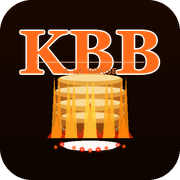
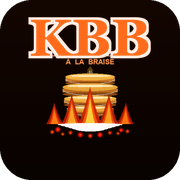
fix(pwa): icône redessinée + SW anti-404 (kbb-v63)
- Icône redessinée : flammes correctes (larges en bas, pointe vers le haut),
  tranches de viande séparées visibles, "À LA BRAISE" lisible,
  braises rougeoyantes au pied des flammes
- sw.js kbb-v63 : cache.addAll séparé en critiques (bloquant) et
  optionnels (Promise.allSettled → plus de 404 bloquant au démarrage)

diff --git a/sw.js b/sw.js
@@ -1,9 +1,14 @@
-const VERSION = 'kbb-v62';
+const VERSION = 'kbb-v63';
 const CACHE = VERSION;
 
-const ASSETS = [
+// Fichiers critiques — l'app ne fonctionne pas sans eux
+const ASSETS_CRITICAL = [
   './',
-  './index.html',
+  './index.html'
+];
+
+// Fichiers optionnels — mis en cache si disponibles (pas de 404 bloquant)
+const ASSETS_OPTIONAL = [
   './manifest.json',
   './icon-192x192.png',
   './icon-512x512.png',
@@ -13,7 +18,14 @@ const ASSETS = [
 
 self.addEventListener('install', e => {
   e.waitUntil(
-    caches.open(CACHE).then(cache => cache.addAll(ASSETS))
+    caches.open(CACHE).then(async cache => {
+      // Critiques : doit réussir
+      await cache.addAll(ASSETS_CRITICAL);
+      // Optionnels : on ignore les erreurs individuelles
+      await Promise.allSettled(
+        ASSETS_OPTIONAL.map(url => cache.add(url).catch(() => null))
+      );
+    })
   );
   self.skipWaiting();
 });
